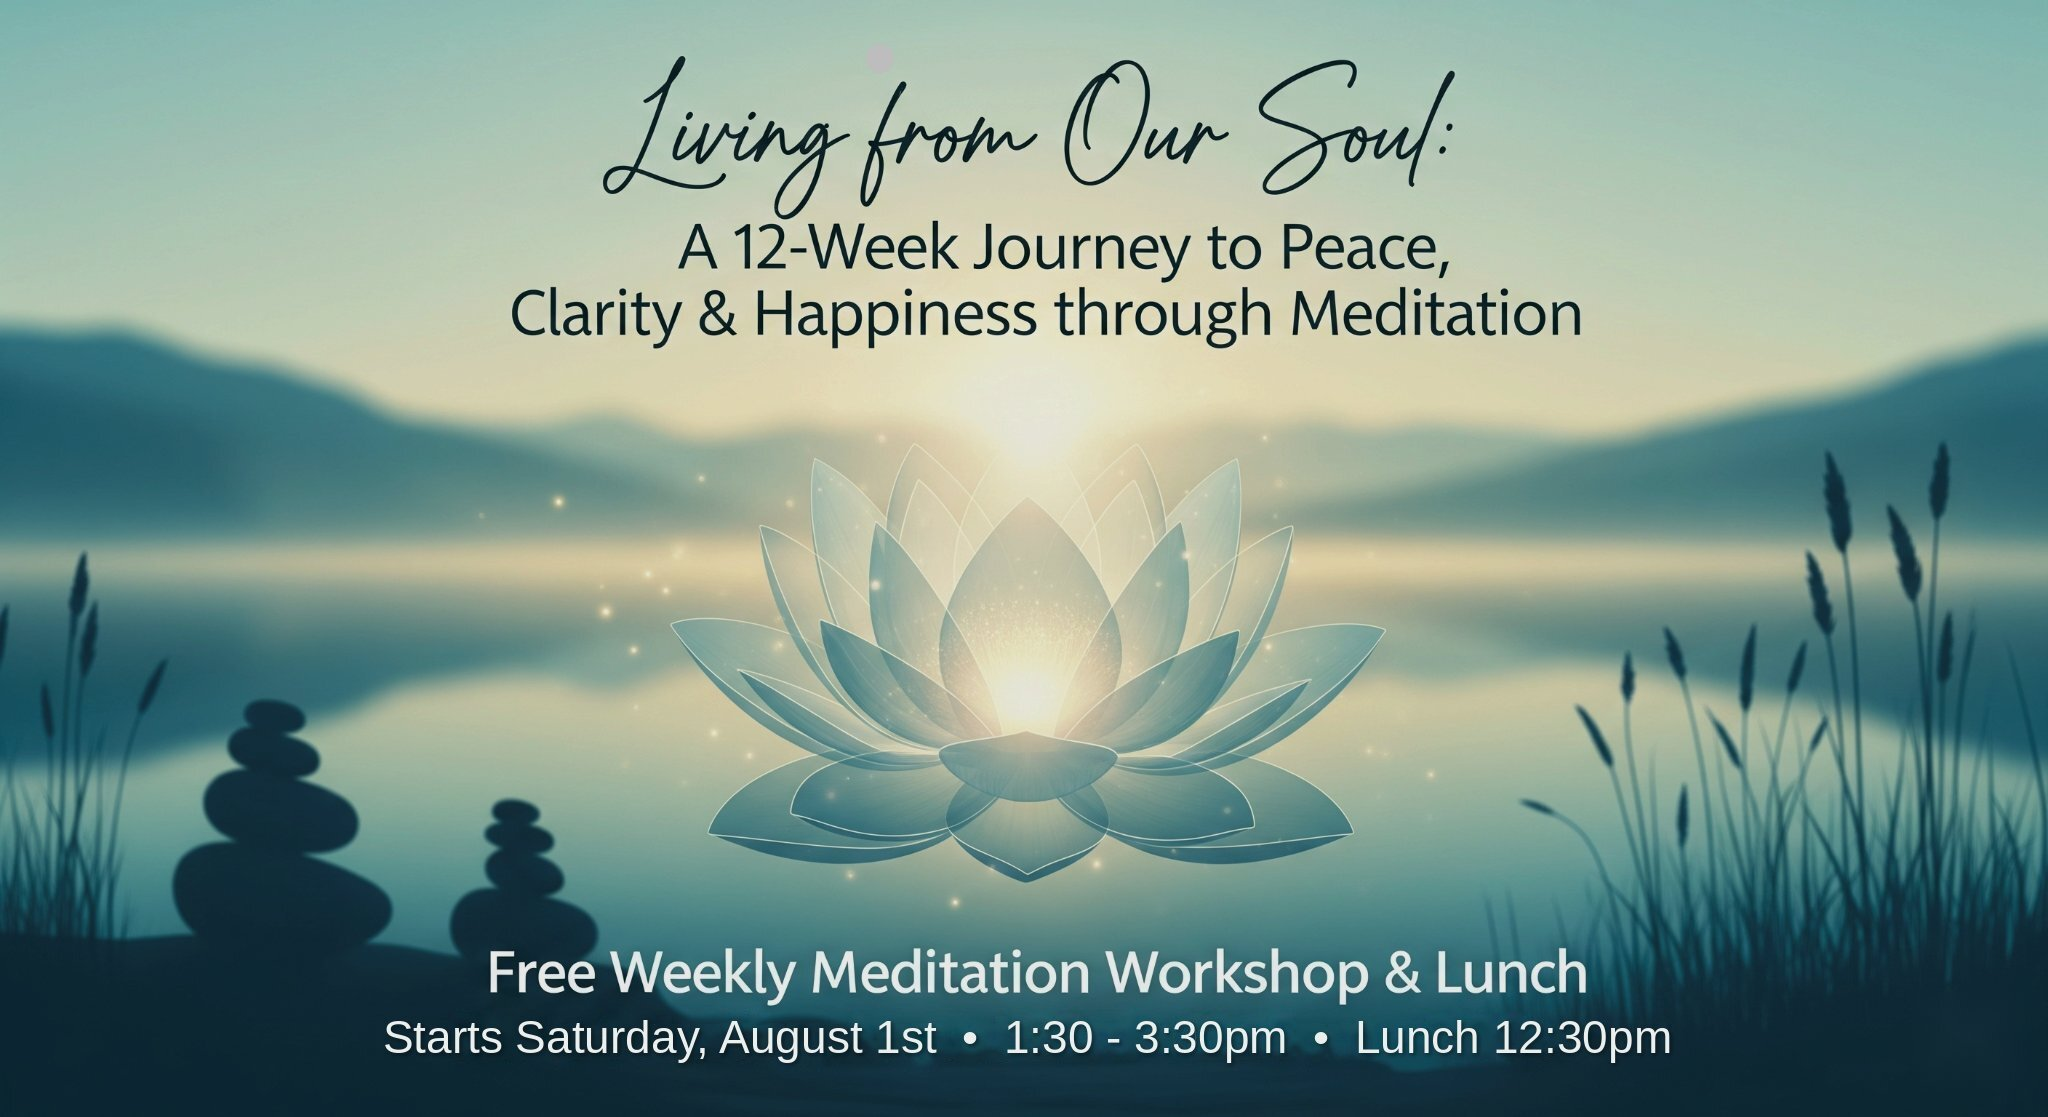
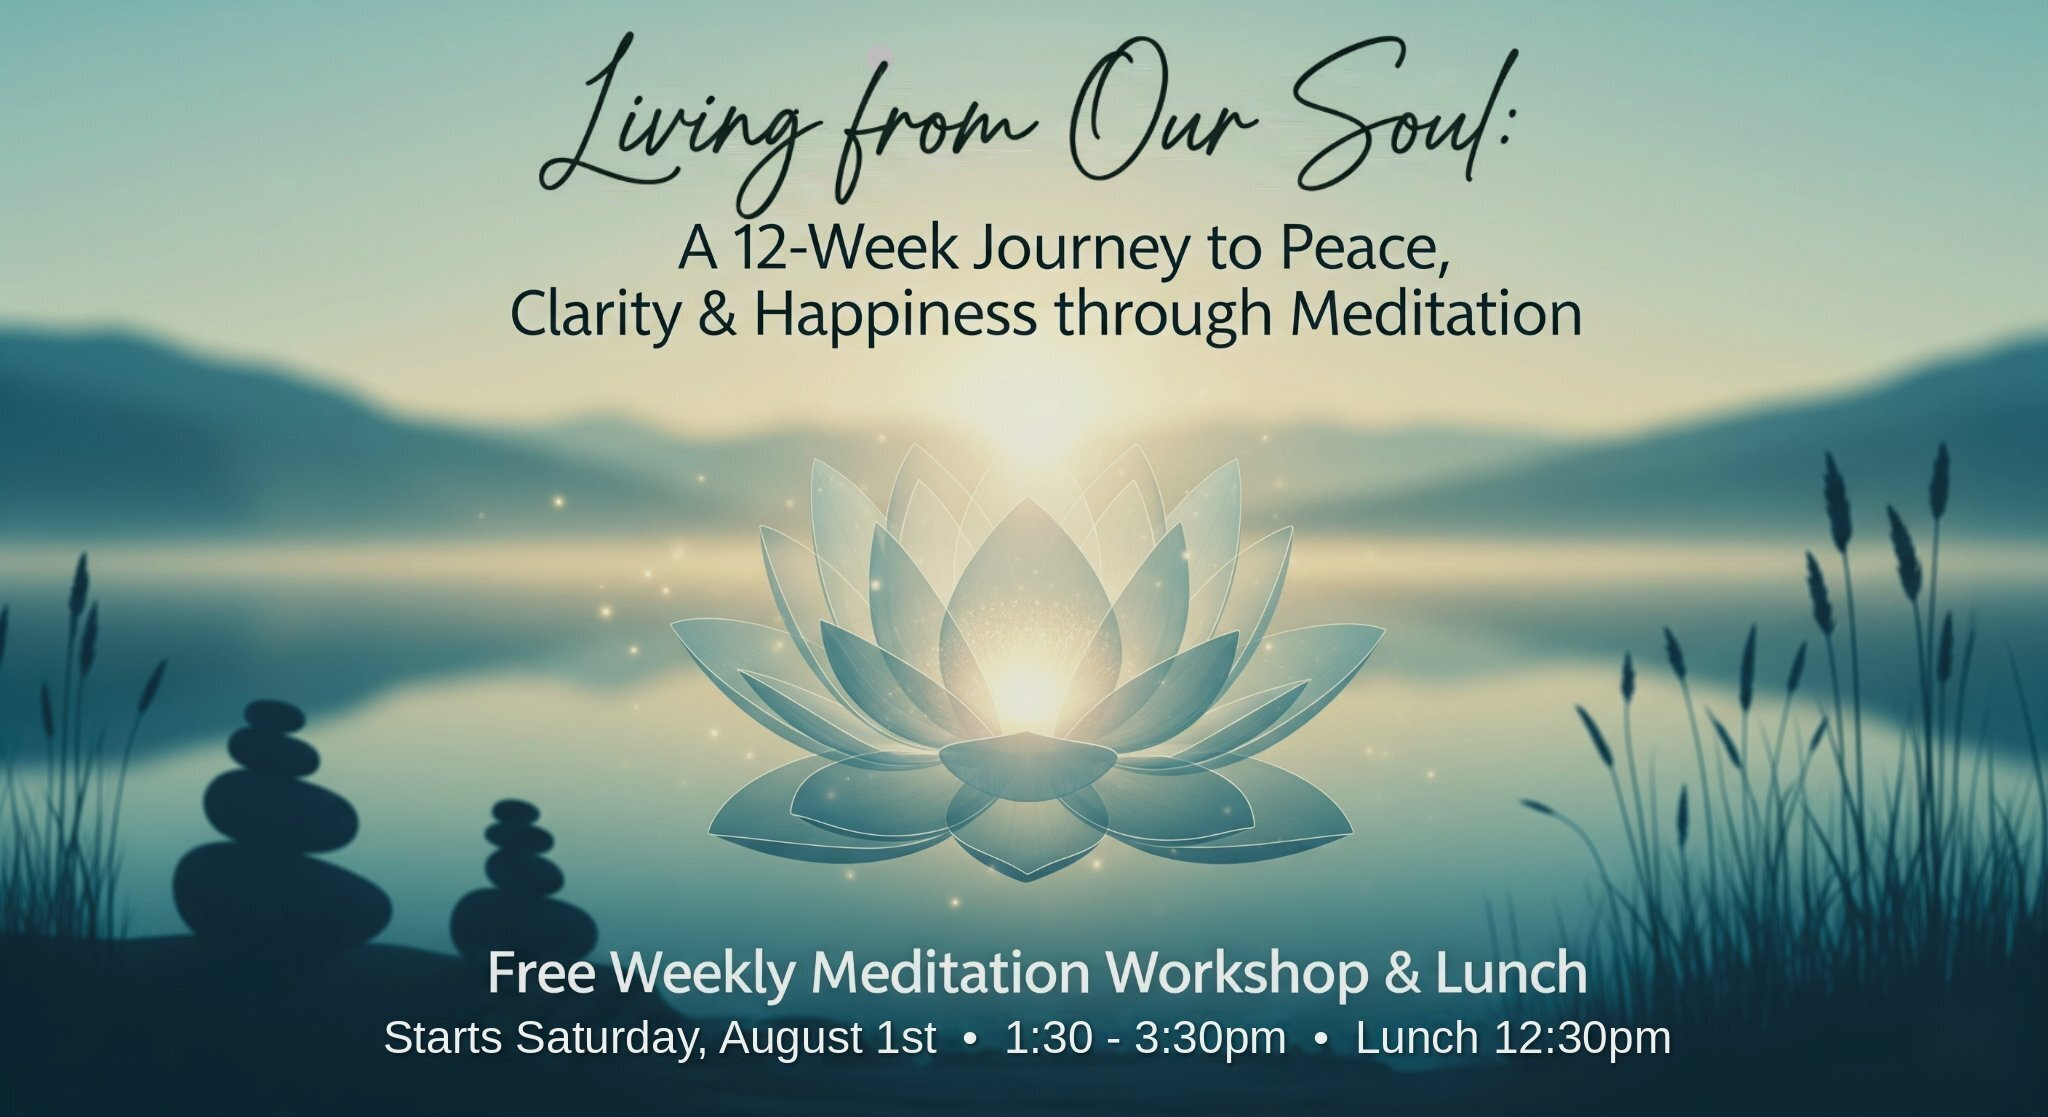
Enlarge poster calligraphy 15%; expand LFOS panel heading
Scale the "Living from Our Soul:" script in the hero poster by 15%,
keeping the original glyphs (no re-typesetting, so the calligraphic
style is untouched). Only 2px separates the script from the line below
it, so the scale is anchored on its baseline and grows upward into the
clear sky above: the block goes from y56-218 to y31-218, leaving that
gap exactly as it was. Measured 1.153x taller, 1.150x wider.

The original strokes are lifted as an alpha matte, the sky behind them
reconstructed per-row, and the matte redrawn at scale; nothing outside
the repaint box changes by a single level.

Panel heading now names the series in full rather than "Free meditation
workshop", with tighter leading since it wraps to two lines.

Claude-Session: https://claude.ai/code/session_019AYNMME1fPnbF3WaX7Gb6L

Changed region(s): [[0.25, 0.0304, 0.75, 0.2131]]

diff --git a/living-from-our-soul/index.html b/living-from-our-soul/index.html
@@ -81,7 +81,7 @@
   }
   .panel h2{
     font-family:"Cormorant Garamond",serif;font-weight:600;
-    font-size:1.7rem;color:var(--ink);margin-bottom:4px;
+    font-size:1.7rem;line-height:1.25;color:var(--ink);margin-bottom:8px;
   }
   .panel .lead{color:var(--mist);margin-bottom:28px;font-size:1rem}
   .facts{display:grid;grid-template-columns:1fr 1fr;gap:22px 28px}
@@ -163,7 +163,7 @@
 
   <main class="wrap">
     <section class="panel" aria-label="Workshop details">
-      <h2>Free meditation workshop</h2>
+      <h2>Living from Our Soul — Free Meditation Workshop Series</h2>
       <p class="lead">A welcoming series for newcomers and longtime practitioners alike. Each session stands on its own, so you can join any Saturday. Come as you are.</p>
 
       <a class="spotlight" href="/karma/">
